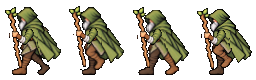
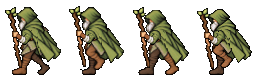
Integrate final approved side walk cycles in all four directions

diff --git a/src/rendering/druidArt.ts b/src/rendering/druidArt.ts
@@ -8,6 +8,7 @@ import backSource from '../assets/characters/druid-back-64x80.png';
 import walkDownSource from '../../docs/art/druid-walk-down-v2/walk-down-64x80.png';
 import walkUpSource from '../../docs/art/druid-walk-other-directions-v1/walk-up-64x80.png';
 import walkLeftSource from '../../docs/art/druid-walk-left-v3/walk-left-64x80.png';
+import walkRightSource from '../../docs/art/druid-walk-right-v1/walk-right-64x80.png';
 import type { Facing } from '../input/FourWayFacing';
 
 export const DRUID_TEXTURES = {
@@ -18,6 +19,7 @@ export const DRUID_TEXTURES = {
   walkDown: 'druid-walk-down-source',
   walkUp: 'druid-walk-up-source',
   walkLeft: 'druid-walk-left-source',
+  walkRight: 'druid-walk-right-source',
 } as const;
 
 export const DRUID_ART = [
@@ -30,6 +32,7 @@ export const DRUID_ART = [
   { key: DRUID_TEXTURES.walkDown, url: walkDownSource, frame: { x: 0, y: 0, width: 64, height: 80 } },
   { key: DRUID_TEXTURES.walkUp, url: walkUpSource, frame: { x: 0, y: 0, width: 64, height: 80 } },
   { key: DRUID_TEXTURES.walkLeft, url: walkLeftSource, frame: { x: 0, y: 0, width: 64, height: 80 } },
+  { key: DRUID_TEXTURES.walkRight, url: walkRightSource, frame: { x: 0, y: 0, width: 64, height: 80 } },
 ] as const;
 
 export const CAMP_DRUID = {
@@ -71,6 +74,8 @@ export const DRUID_WALKS = [
   { direction: 'up', sourceKey: DRUID_TEXTURES.walkUp, animationKey: 'druid-walk-up',
     frameCount: 4, frameDurationMs: 160 },
   { direction: 'left', sourceKey: DRUID_TEXTURES.walkLeft, animationKey: 'druid-walk-left',
+    frameCount: 4, frameDurationMs: 160 },
+  { direction: 'right', sourceKey: DRUID_TEXTURES.walkRight, animationKey: 'druid-walk-right',
     frameCount: 4, frameDurationMs: 160 },
 ] as const;
 

diff --git a/docs/art/druid-walk-left-v3/README.md b/docs/art/druid-walk-left-v3/README.md
@@ -1,31 +1,19 @@
-# Ходьба влево: стабильная левая рука с посохом
+# Принятая ходьба влево
 
-Вариант **подключён к игре на A**: четыре кадра по 160 мс, полный цикл 640 мс. Принятая полоса PNG загружается без перерисовки. Правая рука полностью скрыта плащом. Левая рука, кисть, рукав и посох образуют один неизменный передний слой; между кадрами он только немного смещается по вертикали.
+Последний согласованный вариант **подключён к игре на A**. Четыре кадра по 160 мс, полный цикл 640 мс.
 
-- [Посмотреть GIF](walk-left-preview.gif).
-- [Четыре готовых кадра, увеличенные ×7](walk-left-source.png).
-- [Игровая полоса PNG 256×80](walk-left-64x80.png).
+- [Принятая GIF](walk-left-preview.gif).
+- [Те же четыре кадра, увеличенные ×7](walk-left-source.png).
+- [Подключённая полоса PNG 256×80](walk-left-64x80.png).
 
-<img src="walk-left-preview.gif" alt="Четыре фазы ходьбы с неизменной левой рукой и посохом" width="192">
+<img src="walk-left-preview.gif" alt="Принятая ходьба друида влево" width="192">
 
-Ноги используют прежние четыре фазы и короткий размах: ближняя левая впереди → дальняя правая проходит под тазом → дальняя правая впереди → ближняя левая проходит под тазом. Новые позы ног не генерировались. При локальной очистке убранного посоха восстановлены пиксели под ним; вне маски рук и древка рисунок копируется из предыдущих кадров 1:1. Нижние контуры сапог и защищённые центральные участки ног совпадают с прежними пикселями.
+Плащ перекрывает плечо и верх рукава. Рука с посохом сохраняет форму и слегка смещается по вертикали. Цвет дерева приведён к согласованному тёмному коричневому тону; отдельные пиксели перед посохом удалены.
 
-## Слои
+Игровая полоса подготовлена из четырёх кадров принятой GIF 192×240. Каждый блок 3×3 соответствует одному пикселю сетки 64×80: позы и цвета скопированы без новой генерации, прозрачность восстановлена из исходных кадров этой GIF. Зелёный фон предпросмотра не входит в игровой спрайт. Цвета непрозрачных пикселей PNG точно совпадают с принятой GIF. Увеличенный лист показывает эту же полосу без сглаживания.
 
-| Файл | Назначение |
-| --- | --- |
-| [walk-left-body-64x80.png](walk-left-body-64x80.png) | Четыре базовых кадра тела и ног, без видимых рук и старого посоха в очищенных областях |
-| [left-arm-staff-64x80.png](left-arm-staff-64x80.png) | Единственный рисунок ближней левой руки, кисти, рукава и посоха |
-| [walk-left-layers.json](walk-left-layers.json) | Размеры, порядок слоёв, темп и вертикальные смещения |
-| [body-inpaint-source.png](body-inpaint-source.png) | Сгенерированная локальная подложка для восстановления плаща и поверхности под убранными руками/посохом |
-| [arm-staff-source.png](arm-staff-source.png) | Подробный исходник единственного слоя руки с посохом |
+Размер героя, опора ног и физическое тело сохранены. `DRUID_WALKS` задаёт источник и темп; `RoomScene` запускает цикл при движении и возвращает прежнюю стоящую позу после остановки или упора в препятствие.
 
-На каждом кадре передний слой рисуется **после тела и ног**. Поэтому ноги не могут перекрыть его, а посох остаётся в той же левой руке. Правая рука не имеет отдельного слоя и скрыта плащом. Положение, форма и цвета кисти/рукава не перерисовываются для каждой фазы.
+Проверены точность переноса всех четырёх фаз и цветов GIF в PNG, прозрачность 0/255 и опора ног. `npm run build` и `npm test` проверяют загрузку, последовательность кадров на A, движение, остановку и столкновения.
 
-Сетка **64×80**. Последовательность вертикальных смещений слоя руки: **0, −1, 0, +1 пиксель**, без горизонтальных смещений, отражений или изменения масштаба между кадрами. По **160 мс на кадр**, полный цикл **640 мс**. Слои PNG имеют альфа 0 или 255; палитра PNG не ограничена.
-
-Готовая полоса `walk-left-64x80.png` собрана из этих слоёв. `walk-left-source.png` теперь является листом просмотра готовых кадров с увеличением ×7 ближайшим соседом, а не новым независимым художественным рисунком. GIF увеличен до **192×240** ближайшим соседом; общая палитра ограничена 256 цветами только для GIF.
-
-Проверены точное совпадение непрозрачных пикселей переднего слоя во всех PNG-кадрах после учёта смещения, неизменность его цветов в GIF, порядок композиции, сохранение защищённых участков ног/сапог, прозрачность, четыре фазы и темп GIF. При подключении проверены последовательность четырёх фаз на A, остановка после отпускания клавиши и упора в препятствие, размер и физическое тело. Меню и принятые спрайты ходьбы вверх/вниз сохранены.
-
-Файлы доступны после `git pull --ff-only` в `docs/art/druid-walk-left-v3/`. Для скачивания отдельного файла на GitHub используйте **Download raw file**.
+Остальные исходники тела/руки и JSON с описанием слоёв в этой папке — архив промежуточной подготовки до последних исправлений GIF. Они не загружаются игрой и не воспроизводят финальную полосу напрямую. Текущий согласованный рисунок находится в GIF и `walk-left-64x80.png`.

diff --git a/docs/art/druid-walk-right-v1/README.md b/docs/art/druid-walk-right-v1/README.md
@@ -1,26 +1,19 @@
-# Ходьба вправо: предварительный вариант
+# Принятая ходьба вправо
 
-Четыре фазы подготовлены **для просмотра, пока не подключены к игре**. В игре на D остаётся прежний стоящий ракурс.
+Последний согласованный вариант **подключён к игре на D**. Четыре кадра по 160 мс, полный цикл 640 мс.
 
-- [Посмотреть движение в GIF](walk-right-preview.gif).
-- [Четыре кадра, увеличенные ×7](walk-right-source.png).
-- [Игровая полоса PNG 256×80](walk-right-64x80.png).
+- [Принятая GIF](walk-right-preview.gif).
+- [Те же четыре кадра, увеличенные ×7](walk-right-source.png).
+- [Подключённая полоса PNG 256×80](walk-right-64x80.png).
 
-<img src="walk-right-preview.gif" alt="Четыре фазы ходьбы друида вправо" width="192">
+<img src="walk-right-preview.gif" alt="Принятая ходьба друида вправо" width="192">
 
-Каждый кадр имеет сетку 64×80. Темп — 160 мс на фазу, полный цикл 640 мс; GIF показывает те же кадры с увеличением ×3 без сглаживания.
+Свободная ближняя правая рука имеет короткий широкий рукав, небольшое сгибание в локте и качается примерно на ±12°. Посох остаётся в дальней анатомически левой руке и рисуется за телом; его цвет и форма согласованы с левым циклом.
 
-Порядок фаз: ближняя правая нога впереди → она поддерживает тело, дальняя левая проходит с поднятой стопой → дальняя левая впереди → она поддерживает тело, ближняя правая проходит с поднятой стопой. Ближняя нога светлее, дальняя темнее; это различие сохраняется при смене шага. Тело перерисовано для правого профиля, а не зеркально скопировано из левого цикла.
+Игровая полоса подготовлена из четырёх кадров принятой GIF 192×240. Каждый блок 3×3 соответствует одному пикселю сетки 64×80: позы и цвета скопированы без новой генерации, прозрачность восстановлена из исходных кадров этой GIF. Зелёный фон предпросмотра не входит в игровой спрайт. Цвета непрозрачных пикселей PNG точно совпадают с принятой GIF. Увеличенный лист показывает эту же полосу без сглаживания.
 
-Посох сохраняется в **анатомически левой руке**. При взгляде на правый профиль это дальняя рука: слой рисуется за телом, и плащ/ноги могут естественно его перекрывать. Видимая ближняя правая рука свободна. Рука с посохом нарисована один раз и целиком смещается по вертикали на 0, −1, 0, +1 пиксель; её форма и цвета не меняются между фазами.
+Размер героя, опора ног и физическое тело сохранены. `DRUID_WALKS` задаёт источник и темп; `RoomScene` запускает цикл при движении и возвращает прежнюю стоящую позу после остановки или упора в препятствие.
 
-| Файл | Назначение |
-| --- | --- |
-| `walk-right-body-64x80.png` | Четыре фазы тела, ног и свободной ближней руки |
-| `left-arm-staff-64x80.png` | Единственный слой дальней левой руки с посохом |
-| `walk-right-layers.json` | Порядок слоёв, размеры, смещения и темп |
-| `body-source.png` | Художественный исходник четырёх фаз тела |
-| `arm-staff-source.png` | Художественный исходник единственного слоя руки и посоха |
-| `source-layout.json` | Области исходников, общий масштаб и точки привязки при подготовке PNG |
+Проверены точность переноса всех четырёх фаз и цветов GIF в PNG, прозрачность 0/255 и опора ног. `npm run build` и `npm test` проверяют загрузку, последовательность кадров на D, движение, остановку и столкновения.
 
-Проверены прозрачность 0/255, четыре различных фазы ног, чередование светлой и тёмной ноги, точная композиция слоёв и неизменность видимых пикселей руки/посоха с учётом смещения и перекрытия телом. GIF имеет четыре кадра по 160 мс и общую палитру, чтобы неподвижные детали не меняли цвет. Художественное качество походки оцениваем по предпросмотру.
+Остальные исходники тела/руки и JSON с описанием слоёв в этой папке — архив промежуточной подготовки до последних исправлений GIF. Они не загружаются игрой и не воспроизводят финальную полосу напрямую. Текущий согласованный рисунок находится в GIF и `walk-right-64x80.png`.

diff --git a/src/assets/README.md b/src/assets/README.md
@@ -11,11 +11,11 @@
 - `docs/art/druid-walk-other-directions-v1/walk-up-64x80.png` — принятый цикл ходьбы вверх: четыре кадра 64×80, исходный рисунок сохранён.
 - `docs/art/druid-walk-down-v2/walk-down-64x80.png` — принятый цикл ходьбы вниз: четыре кадра 64×80 на полосе 256×80. Загружается напрямую; рисунок не меняется.
 
-- `docs/art/druid-walk-left-v3/walk-left-64x80.png` — принятая ходьба влево: четыре кадра 64×80, подключена без перерисовки; один слой левой руки с посохом смещается целиком.
-- `docs/art/druid-walk-right-v1/` — новый предварительный цикл вправо, пока не загружается игрой.
+- `docs/art/druid-walk-left-v3/walk-left-64x80.png` — последняя принятая ходьба влево: четыре кадра 64×80 из согласованной GIF, с исправленным плащом, цветом посоха и удалёнными отдельными пикселями.
+- `docs/art/druid-walk-right-v1/walk-right-64x80.png` — принятая ходьба вправо: четыре кадра из согласованной GIF, с короткой широкой согнутой свободной рукой. Загружается напрямую.
 
 Активный слой лагеря для выбранного друида берётся напрямую из `docs/art/druid-detail-preview-v1/character-selection-preview.png`, без дублирования файла. Кадр (840, 80), 696×864 исходных пикселей отображается в размере 435×540, в точке (525, 50). `druidArt.ts` копирует исходные пиксели без изменения палитры и сетки. В кадре находятся друид и окружение; прозрачного отделения этого конкретного образа пока нет.
 
 Текст, портреты и кнопки меню рисуются отдельно. Слой лагеря, его масштаб и положение задаются через `CHARACTERS.camp`; игровой образ — через `CHARACTERS.game`. Для каждого направления загружается собственный PNG 64×80. `druidArt.ts` копирует их 1:1 в четыре слота атласа 256×80; источник каждого кадра задаётся в `DRUID_VIEWS.sourceKey`. Принятый фронтальный PNG не изменён. Остальные три изображения уменьшены тем же способом из соответствующих ракурсов одобренного подробного листа. Последние пять строк PNG прозрачны, поэтому копирование строк 0–74 сохраняет весь рисунок. Центр опоры x=32, нижняя граница ног y=75. Отображение кадра 87,5×109,375 и физическое тело 20×25 сохранены. `game.frames` связывает направления со слотами; `FourWayFacing` выбирает нужный ракурс по WASD, после остановки направление сохраняется. Сглаживание текстуры выключено.
 
-Циклы ходьбы описаны отдельно в `DRUID_WALKS`, а их ключи доступны через `game.walkAnimations`. Сейчас заданы `down`, `up` и `left`: по четыре кадра по 160 мс, цикл 640 мс. `RoomScene` использует Arcade Sprite, запускает цикл при движении в соответствующем направлении и останавливает при отпускании клавиш или блокировке движения. Для направлений без цикла отображается прежний кадр из `game.frames`. Размер, центр опоры, физическое тело и фильтр NEAREST одинаковы для стоящих и движущихся кадров. Следующие циклы можно добавить в конфигурацию и загрузку, не меняя управление и физику.
+Циклы ходьбы описаны отдельно в `DRUID_WALKS`, а их ключи доступны через `game.walkAnimations`. Сейчас заданы `down`, `up`, `left` и `right`: по четыре кадра по 160 мс, цикл 640 мс. `RoomScene` использует Arcade Sprite, запускает цикл при движении в соответствующем направлении и останавливает при отпускании клавиш или блокировке движения. Для направлений без цикла отображается прежний кадр из `game.frames`. Размер, центр опоры, физическое тело и фильтр NEAREST одинаковы для стоящих и движущихся кадров. Следующие циклы можно добавить в конфигурацию и загрузку, не меняя управление и физику.
